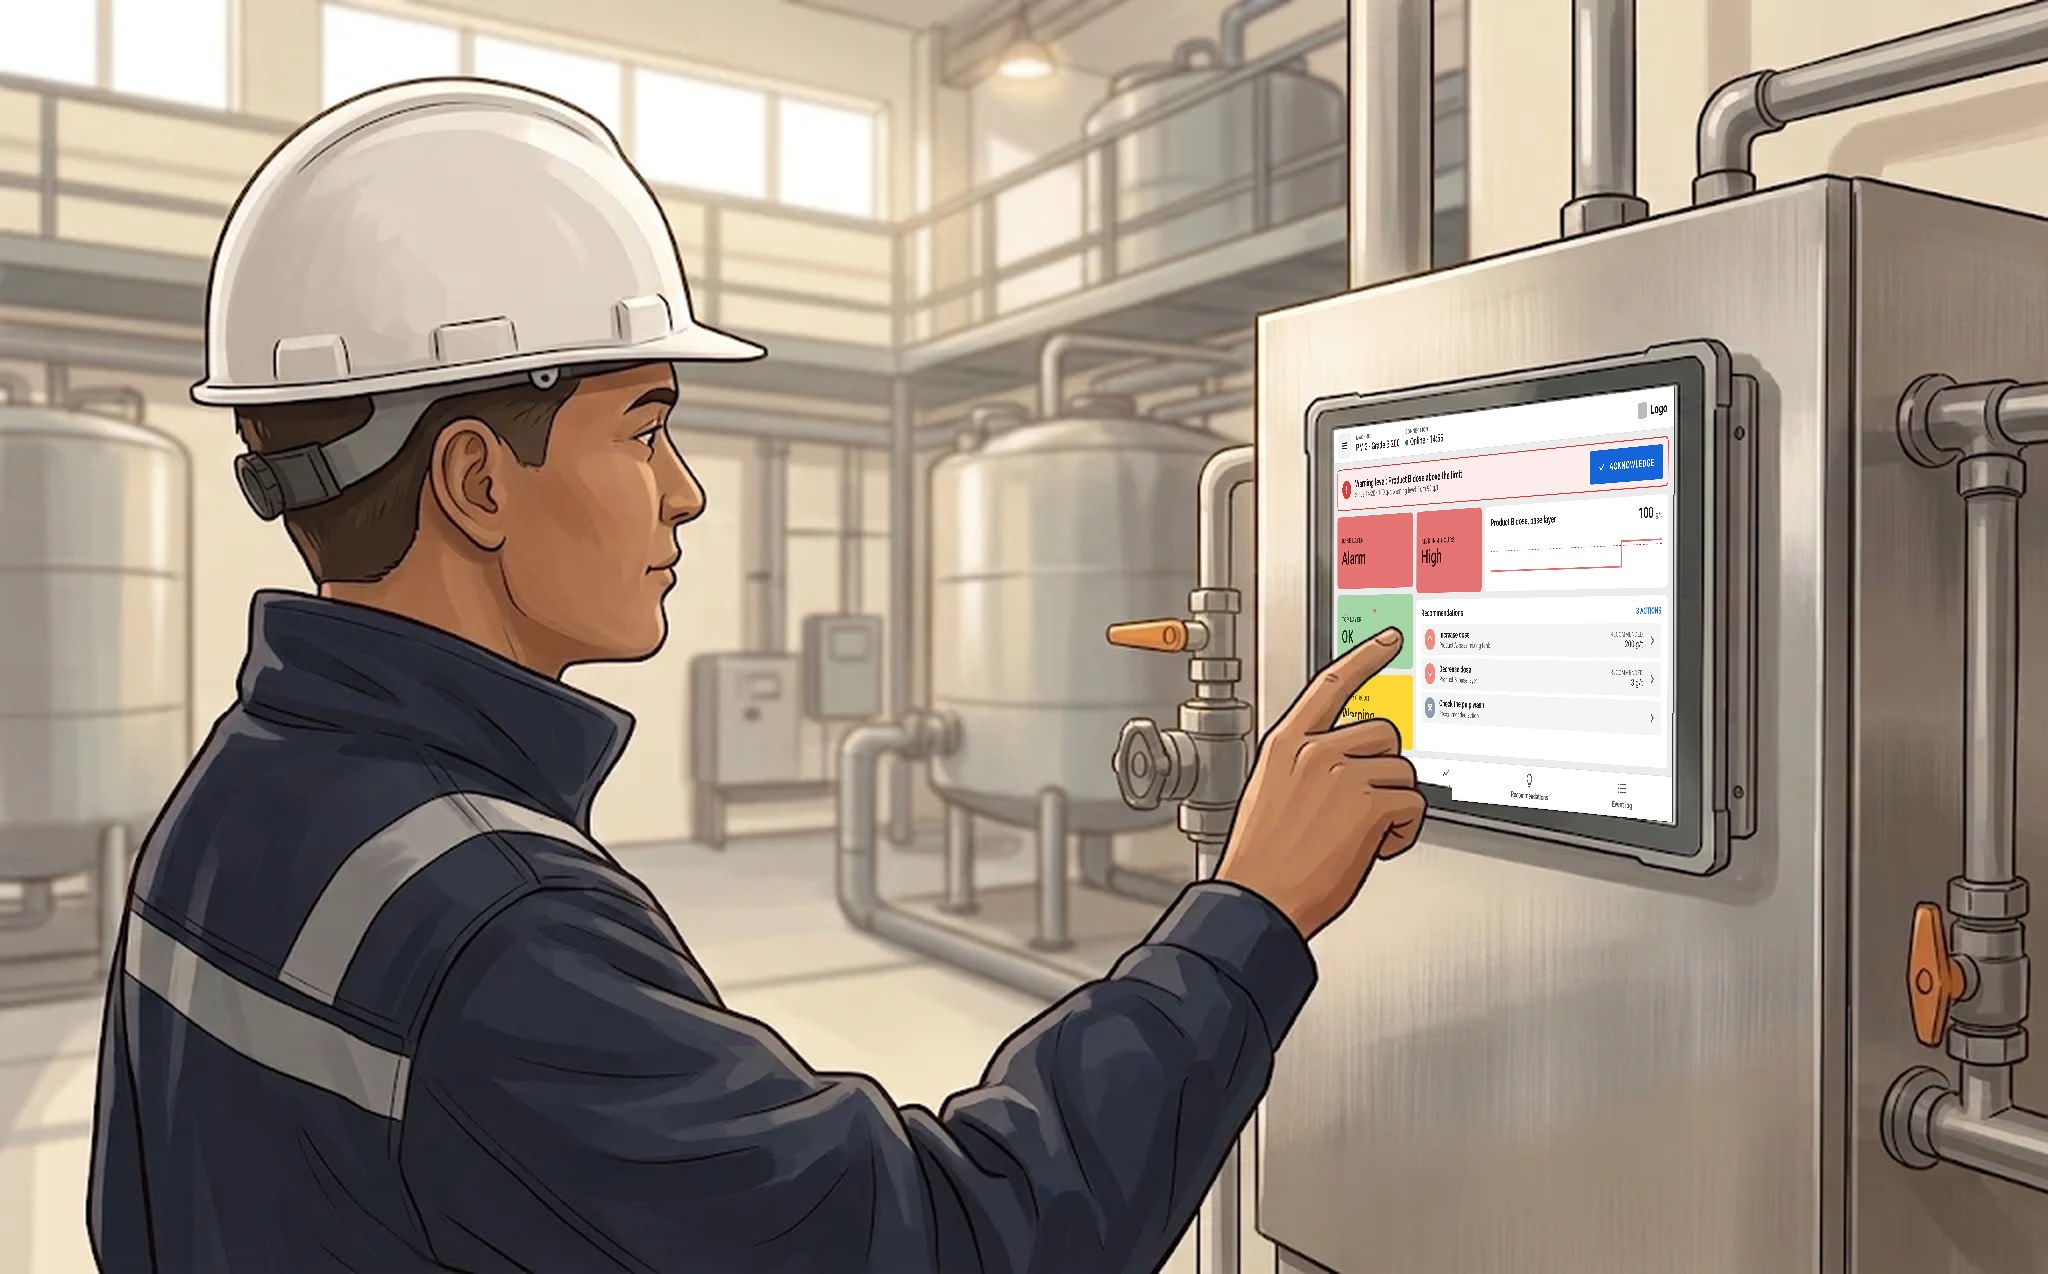
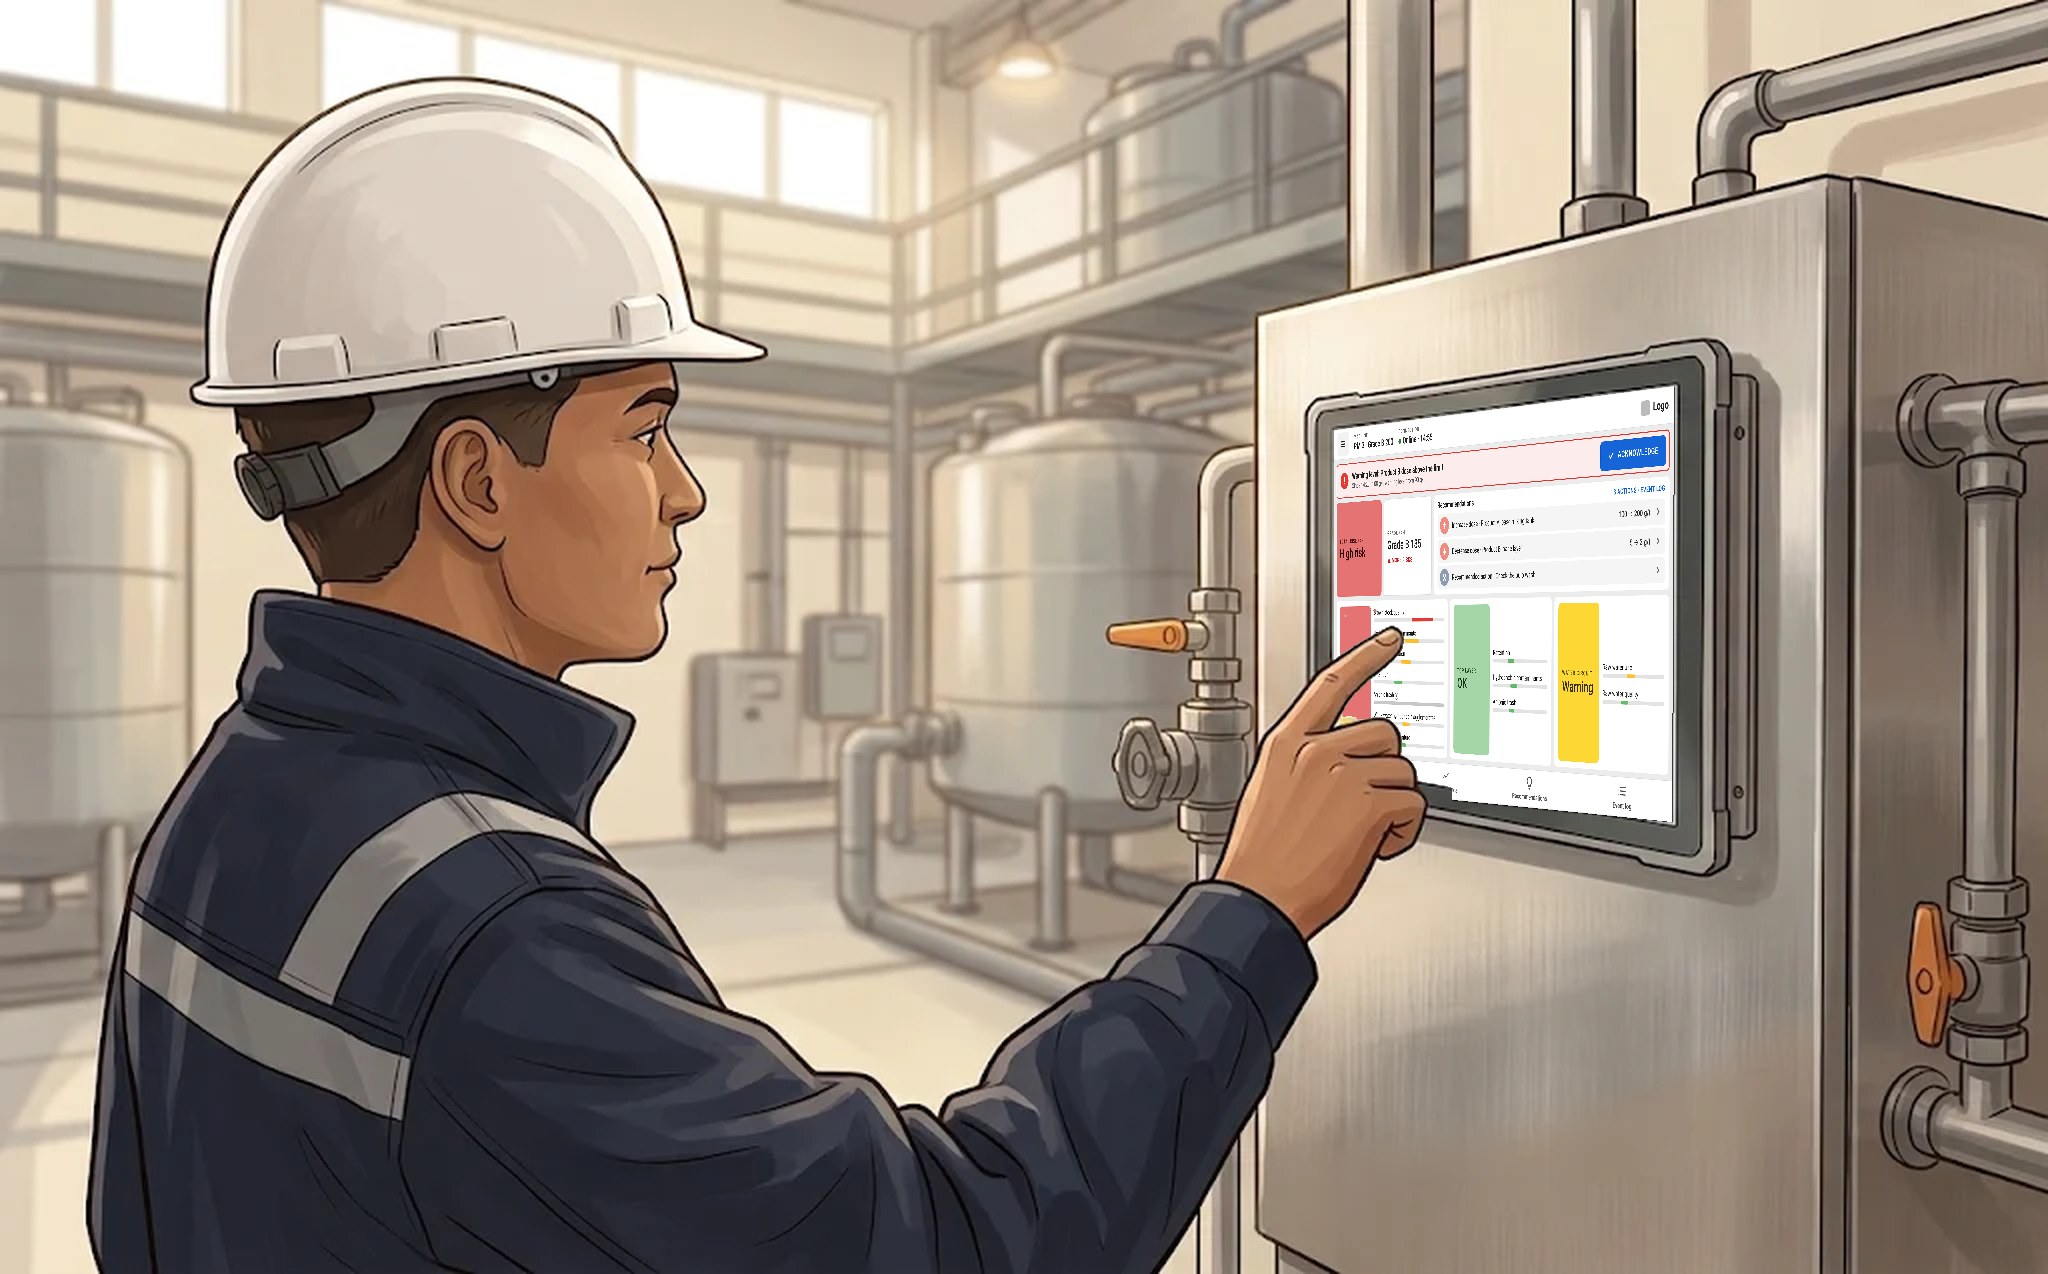
Industrial case: plant touch screen shows all status information
Claude-Session: https://claude.ai/code/session_015M7xwsL7YAwHherkf6d5xQ

Changed region(s): [[0.625, 0.3367, 0.8125, 0.6122]]

diff --git a/portfolio-homepage/src/data/case-studies/fi/industrial-tool.ts b/portfolio-homepage/src/data/case-studies/fi/industrial-tool.ts
@@ -32,7 +32,7 @@ const alertShots = localizeGallery(enAlertShots, [
     caption: "Kuvitus · Tehtaan näyttö annostelulaitteessa",
   },
   {
-    alt: "Tehtaan kosketusnäytön versio: isot tilaruudut, hälytyspalkki ja iso kuittauspainike, suositukset isoina riveinä sekä alanavigaatio",
+    alt: "Tehtaan kosketusnäytön versio: hälytyspalkki ja iso kuittauspainike, riskiennuste, suositukset isoina riveinä, prosessin kolme tilaa mittareineen sekä alanavigaatio",
     caption: "Rekonstruktio · Tehtaan kosketusnäyttö",
   },
   {
@@ -274,7 +274,7 @@ export const industrialToolFi: CaseStudy = {
             "Erillisellä budjetilla suunnittelin hälytysjärjestelmän. Se oli oma sovelluksensa eikä osa pääalustaa, ja siitä oli kaksi versiota: työpöytäsovellus ja versio tehtailla annostelulaitteisiin kiinnitetyille kosketusnäytöille. Järjestelmä seuraa prosessin kemiallista tilaa ja varoittaa, kun säiliö on täyttymässä tai jokin muu menee vikaan.",
             "Tilanäkymässä näkyvät neljän tunnin riskiennuste, suositellut toimenpiteet ja prosessin eri osien tila. Jokaisella tilalla on värin lisäksi tekstimerkintä, joten tieto ei ole pelkän värin varassa.",
             "Työpöytäsovelluksessa käyttäjä asettaa datalle kolme tasoa: normaali (vihreä), keskitaso (oranssi) ja varoitustaso (punainen). Lisäksi hän valitsee, kuka saa hälytykset sähköpostiin tai tekstiviestinä, ja lisää uudet vastaanottajat sähköpostiosoitteella. Näin hälytys tavoittaa sekä tehtaan prosessinhoitajan että kenttähuollon.",
-            "Tehtaan näytöllä hälytykset näkyvät aina, ja ne kuitataan suoraan näytöltä. Näyttöä käytetään sormella, joten tekstit, painikkeet ja navigaatio ovat isompia ja näkymä on yksinkertaisempi kuin työpöytäsovelluksessa. Siinä näkyvät vain tilat, aktiivinen hälytys, suositukset ja alareunan navigaatio.",
+            "Tehtaan näytöllä hälytykset näkyvät aina, ja ne kuitataan suoraan näytöltä. Näyttöä käytetään sormella, joten tekstit, painikkeet ja navigaatio ovat isompia kuin työpöytäsovelluksessa. Samat tiedot näkyvät yhdellä silmäyksellä, ja annostelun trendit ovat omalla välilehdellään alareunan navigaatiossa.",
             "Ensimmäinen kuva on kuvitus käyttötilanteesta. Alkuperäisestä järjestelmästä ei ole jäljellä kuvakaappauksia, joten näkymät ovat rekonstruktio yhden säilyneen kuvan pohjalta. Tuotenimet on poistettu.",
           ],
           figures: [[alertShots[0], alertShots[1]], [alertShots[2], alertShots[3]]],

diff --git a/portfolio-homepage/src/data/case-studies/industrial-tool.ts b/portfolio-homepage/src/data/case-studies/industrial-tool.ts
@@ -76,7 +76,7 @@ export const alertShots: GalleryImage[] = [
   },
   {
     src: "/case/kem-alert-plant.png",
-    alt: "Touch screen version for the plant: large status tiles, an alert banner with a large acknowledge button, recommendations as large rows and a bottom navigation",
+    alt: "Touch screen version for the plant: an alert banner with a large acknowledge button, the risk forecast, recommendations as large rows, the three process states with their indicators, and a bottom navigation",
     caption: "Reconstruction · Plant touch screen",
     width: 2560,
     height: 1600,
@@ -329,7 +329,7 @@ export const industrialTool: CaseStudy = {
             "With a separate budget, I designed an alert system. It was its own application, not part of the main platform, and it came in two versions: a desktop app, and a version for touch screens mounted on the dosing equipment at the plants. It tracks the chemical state of the process and warns when a tank is filling up or something else goes wrong.",
             "The status view shows the risk forecast for the next four hours, recommended actions and the state of each part of the process. Every state has a text label as well as a colour, so it doesn't rely on colour alone.",
             "In the desktop app, users set three levels for the data: normal (green), mid level (orange) and warning level (red). They also choose who gets alerts by email or text message, and add new recipients by email address. That way an alert reaches both the process operator at the plant and field service.",
-            "On the plant screen, alerts always show and are acknowledged right on the screen. The screen is used with a finger, so text, buttons and navigation are larger and the view is simpler than in the desktop app: the states, the active alert, recommendations and a bottom navigation.",
+            "On the plant screen, alerts always show and are acknowledged right on the screen. The screen is used with a finger, so text, buttons and navigation are larger than in the desktop app. The same information shows at a glance, and the dosing trends have their own tab in the bottom navigation.",
             "The first image is an illustration of the situation of use. No screenshots of the original system survive, so the views are a reconstruction based on one surviving image. Product names have been removed.",
           ],
           figures: [[alertShots[0], alertShots[1]], [alertShots[2], alertShots[3]]],
